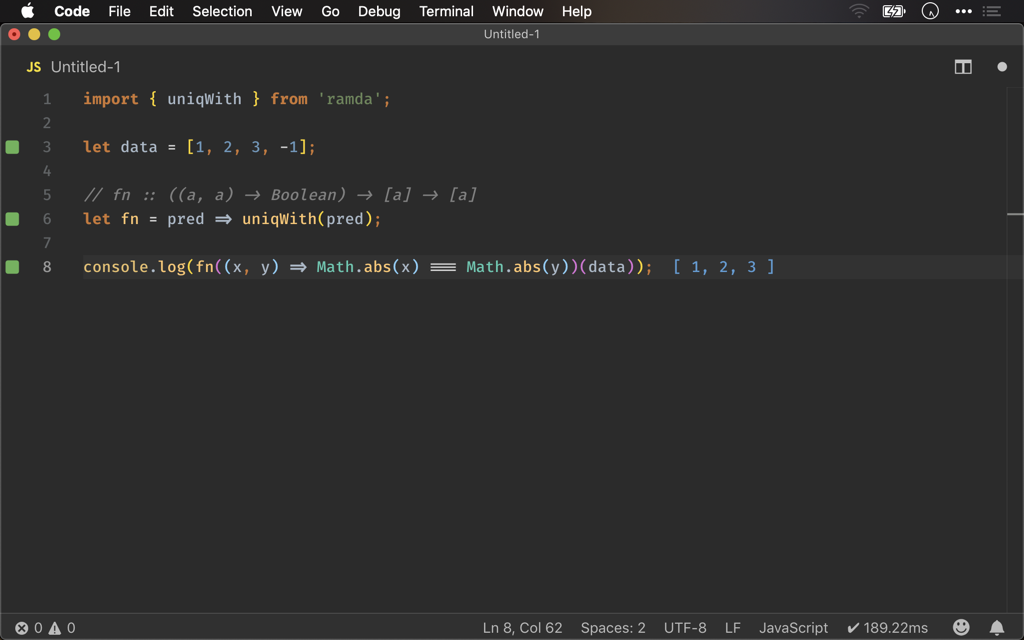
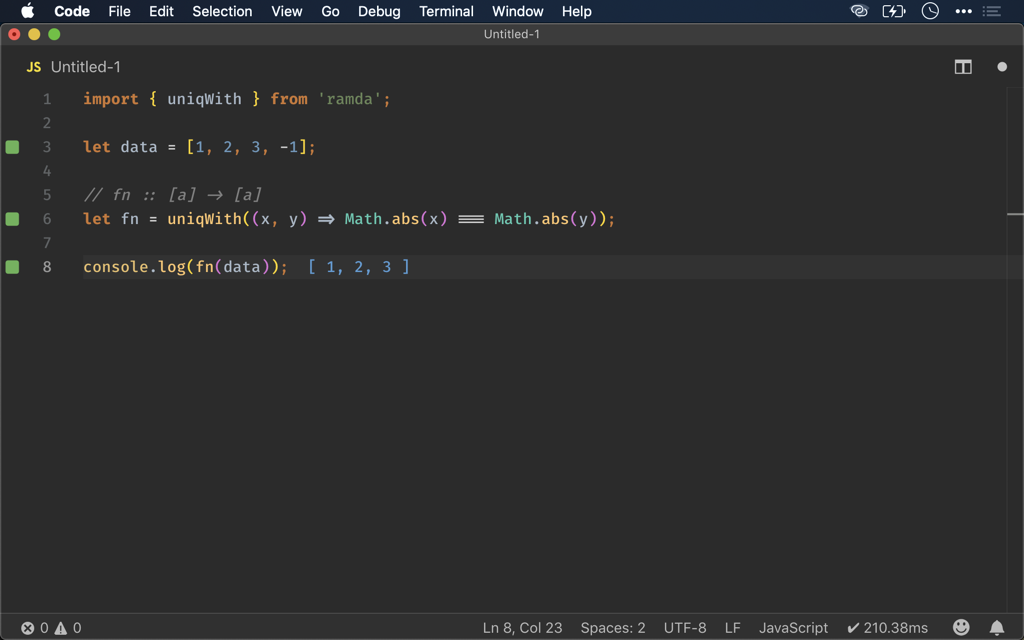
Ramda 之 eqBy()

diff --git a/source/_posts/ramda/eqby.md b/source/_posts/ramda/eqby.md
@@ -10,12 +10,6 @@ Ramda 有些 Function 很少直接使用，而是用來產生 Predicate，`eqBy(
 
 <!-- more -->
 
-## Version
-
-VS Code 1.33.1
-Quokka 1.0.212
-Ramda 0.26.1
-
 ## eqBy()
 
 > **eqBy()**
@@ -49,10 +43,10 @@ import { uniqWith } from 'ramda';
 
 let data = [1, 2, 3, -1];
 
-// fn :: ((a, a) -> Boolean) -> [a] -> [a]
-let fn = pred => uniqWith(pred);
+// fn :: [a] -> [a]
+let fn = uniqWith((x, y) => Math.abs(x) === Math.abs(y));
 
-console.log(fn((x, y) => Math.abs(x) === Math.abs(y))(data));
+console.log(fn(data));
 ```
 
 `data` 中包含 `1` 與 `-1`，若`1` 與  `-1` 均視為相同而不想重複顯示，也就是我們希望結果只顯示 `[1, 2, 3]`。
@@ -68,10 +62,10 @@ import { uniqWith, eqBy } from 'ramda';
 
 let data = [1, 2, 3, -1];
 
-// fn :: ((a, a) -> Boolean) -> [a] -> [a]
-let fn = pred => uniqWith(pred);
+// fn :: [a] -> [a]
+let fn = uniqWith(eqBy(Math.abs));
 
-console.log(fn(eqBy(Math.abs))(data));
+console.log(fn(data));
 ```
 
 由於 `x` 與 `y` 同時經過 `Math.abs()` 運算，因此適合使用 `eqBy(Math.abs)` 產生 predicate 使其 point-free。
@@ -87,4 +81,3 @@ console.log(fn(eqBy(Math.abs))(data));
 
 [Ramda](https://ramdajs.com), [eqBy()](https://ramdajs.com/docs/#eqBy)
 [Ramda](https://ramdajs.com), [uniqWith()](https://ramdajs.com/docs/#uniqWith)
-
